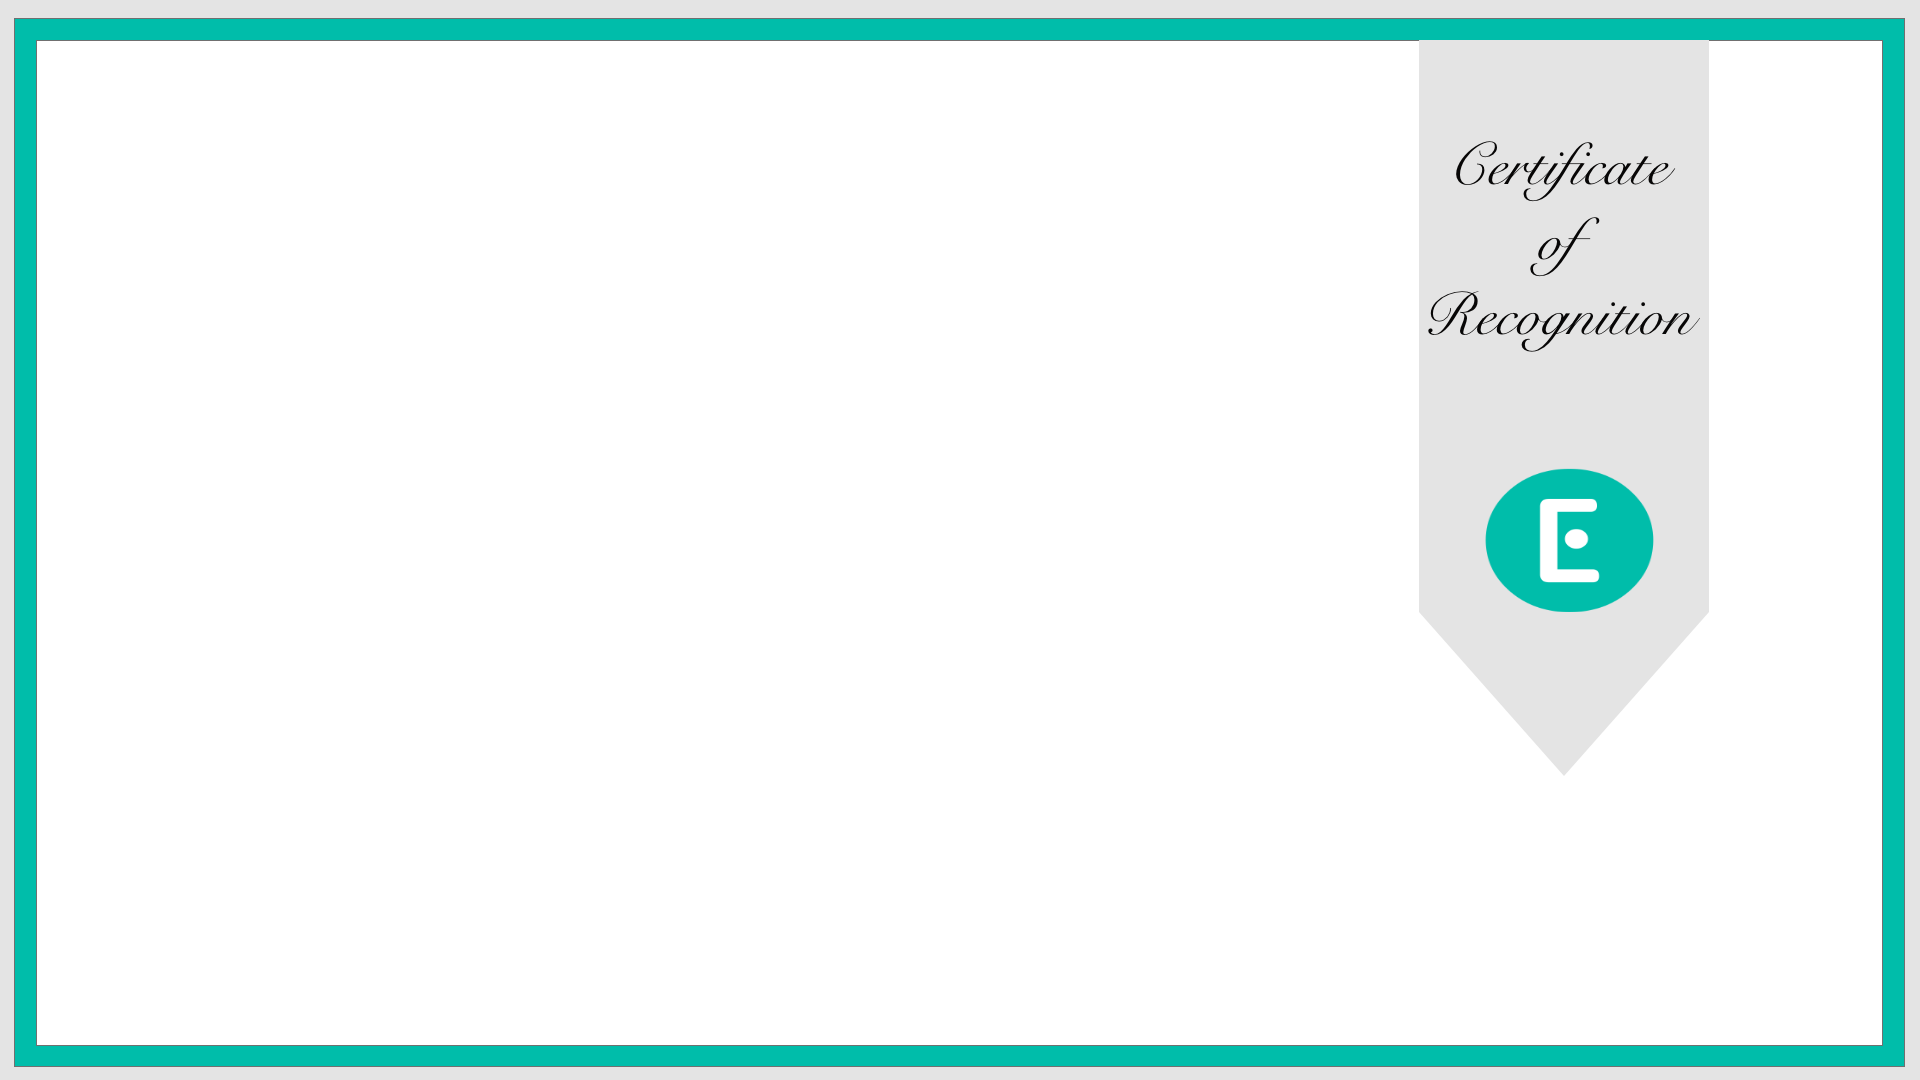
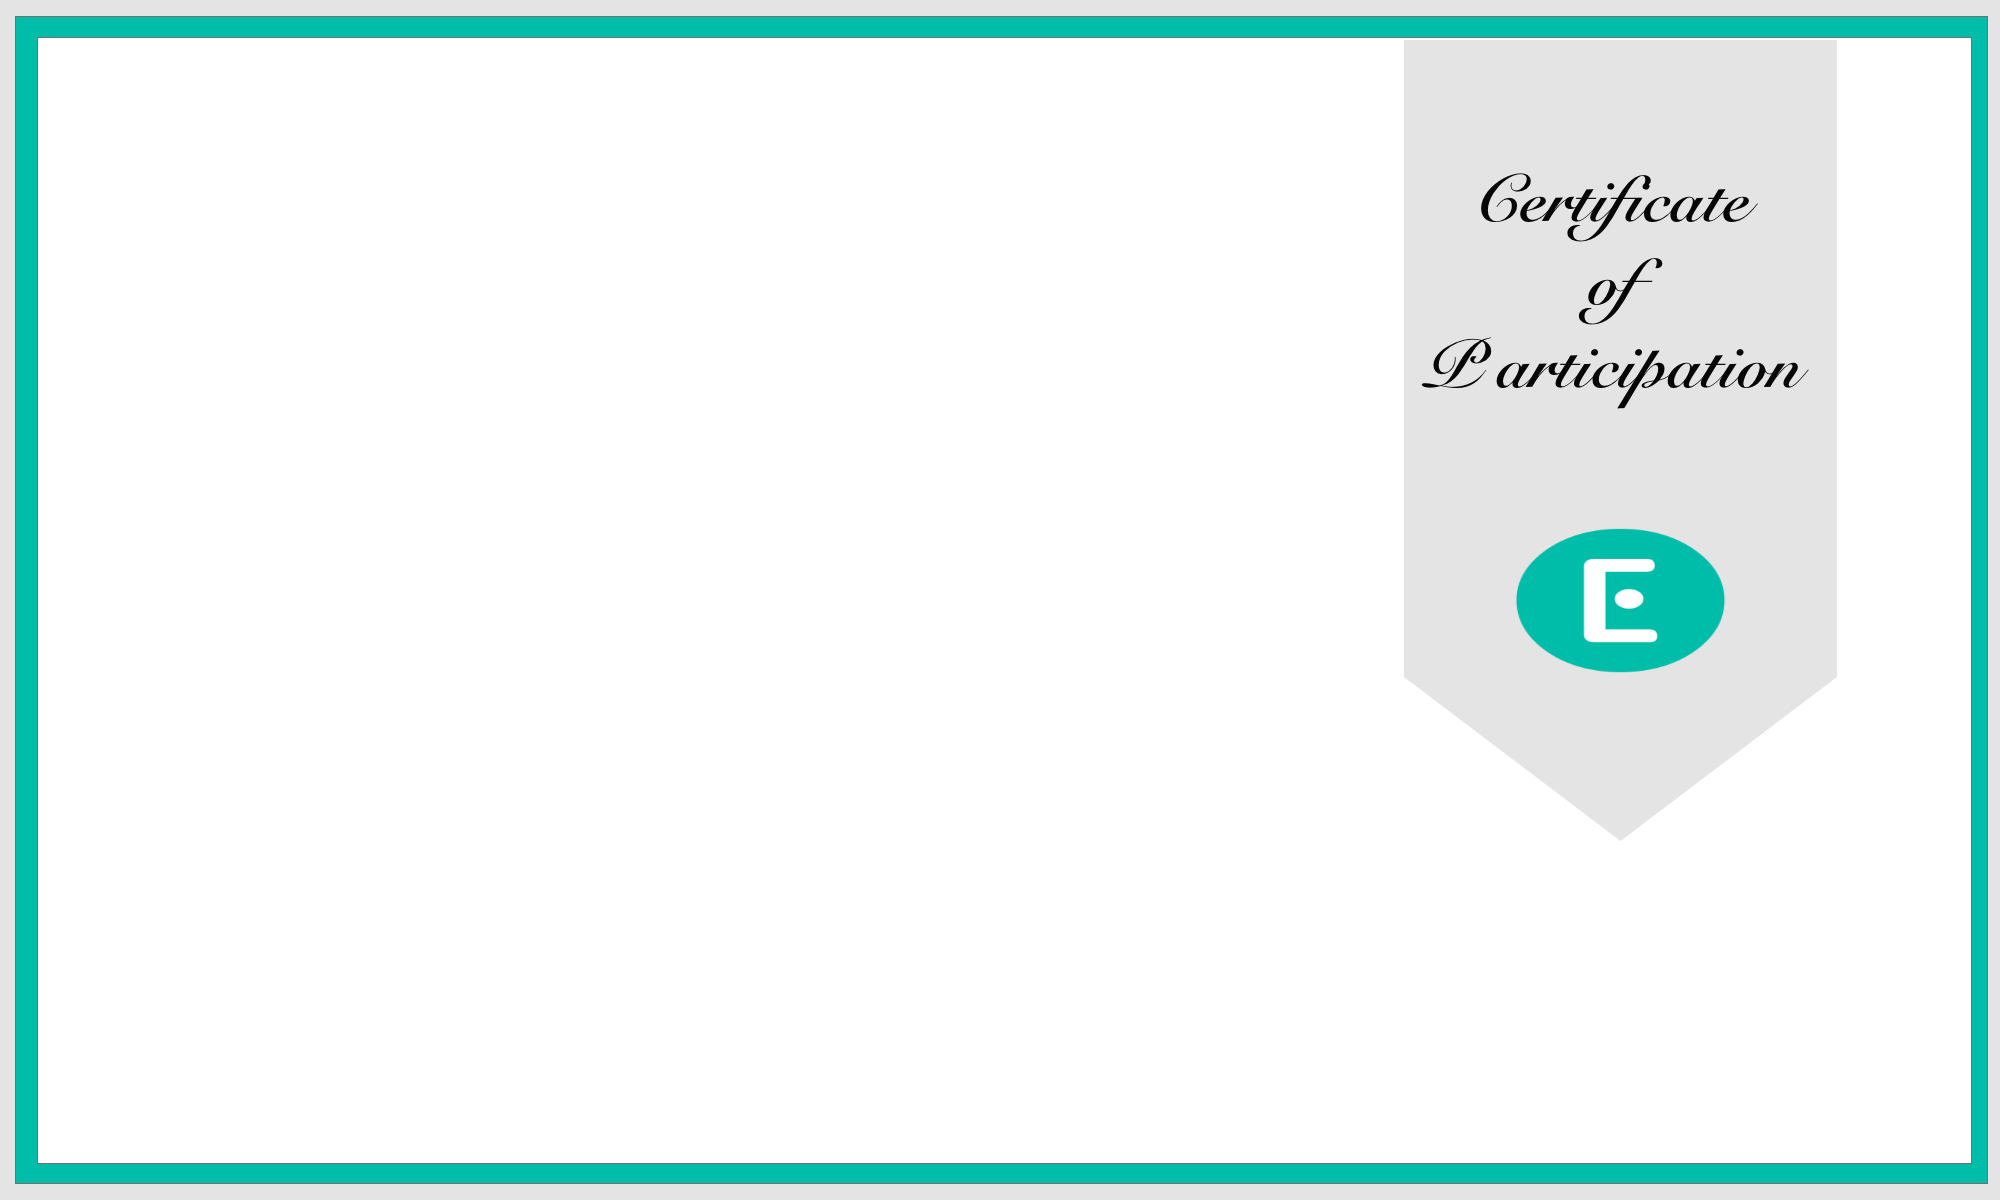
feedback routes added and some adminroutes added

Changed region(s): [[0.0, 0.0, 1.0, 1.0], [0.8438, 0.6111, 0.875, 0.6417], [0.8125, 0.6722, 0.8438, 0.7028]]

diff --git a/certificatetemplate.js b/certificatetemplate.js
@@ -2,78 +2,103 @@
 module.exports = () => {
     const today = new Date();
     return `
-<!DOCTYPE html>
-<html lang="en">
-<head>
-    <meta charset="UTF-8">
-    <meta name="viewport" content="width=device-width, initial-scale=1.0">
-    <title>Certificate</title>
-    <style>
-        body {
+    <!DOCTYPE html>
+    <html lang="en">
+    <head>
+        <meta charset="UTF-8">
+        <meta name="viewport" content="width=device-width, initial-scale=1.0">
+        <title>Certificate</title>
+        <style>
             
-        }
-        .title {
-            position: absolute;
-            left:80px;
-            top:100px;
-        }
-        .title2 {
-            position: absolute;
-            left:80px;
-            bottom:100px;
-        }
-        .bgimage {
-            display: block;
-            margin-left: auto;
-            margin-right: auto;
-            marign-top: auto;
-            margin-bottom: auto;
-        }
-        .one {
-            position: absolute;
-            left:80px;
-            top:60px;
-            font-weight: bolder;
-            font-size: 2.5em;
-        }
-        .two {
-            position: absolute;
-            left:80px;
-            top:170px;
-            /* font-weight: bolder; */
-            /* font-size: 2.5em; */
-        }
-        .three {
-            position: absolute;
-            left: 80px;
-            top: 200px;
-            font-weight: bolder;
-            font-size: 2.5em;
-        }
-        .four {
-            position: absolute;
-            left: 80px;
-            top: 270px;
-            /* font-weight: bolder; */
-            font-size: 1.5em;
-        }
-        .five {
-            position: absolute;
-            left: 80px;
-            top: 300px;
-            font-weight: bolder;
-            font-size: 2.5em;
-        }
-    </style>
-</head>
-<body>
-<img class="bgimage" src="http://localhost:4000/files/certificatebackground.png" height="1480px" width="1950px">
-<p class="one">CodeChef VIT</p> 
-<p class="two">01/10/2020</p>
-<p class="three">PUNEPALLE R LALITH SAGAR</p>
-<p class="four">has participated in</p>
-<p class="five">DevHack</p>
-</body>
-</html>
+            .bgimage {
+                display: block;
+                margin-left: auto;
+                margin-right: auto;
+                marign-top: auto;
+                margin-bottom: auto;
+            }
+            .one {
+                position: absolute;
+                left:109px;
+                top:105px;
+                /* font-weight: bolder; */
+                font-size: 90px;
+            }
+            .two {
+                position: absolute;
+                left:109px;
+                top:281px;
+                /* font-weight: bolder; */
+                font-size: 39px;
+            }
+            .three {
+                position: absolute;
+                left: 109px;
+                top: 326px;
+                font-weight: bolder;
+                font-size: 65px;
+            }
+            .four {
+                position: absolute;
+                left: 109px;
+                top: 420px;
+                /* font-weight: bolder; */
+                font-size: 50px;
+            }
+            .five {
+                position: absolute;
+                left: 109px;
+                top: 496px;
+                font-weight: bolder;
+                font-size: 65px;
+            }
+            .six {
+                position: absolute;
+                left: 109px;
+                top: 590px;
+                font-size: 50px;
+            }
+            .seven {
+                position: absolute;
+                left: 109px;
+                top: 897px;
+                font-weight: bolder;
+                font-size: 2.5em;
+            }
+            .eight {
+                position: absolute;
+                left: 1404px;
+                top: 1035px;
+                /* font-weight: bolder; */
+                font-size: 25px;
+            }
+            .nine {
+                position: absolute;
+                left: 1404px;
+                top: 1077px;
+                /* font-weight: bolder; */
+                font-size: 25px;
+            }
+            
+        </style>
+    </head>
+    <body>
+    <img class="bgimage" src="http://localhost:4000/files/certificatebackground.png" height="1180px" width="1950px">
+    <p class="one">CodeChef VIT</p> 
+    <p class="two">01/10/2020</p>
+    <p class="three">PUNEPALLE R LALITH SAGAR</p>
+    <p class="four">has participated in</p>
+    <p class="five">DevHack</p>
+    <p class="six">an hackathon organized by CodechefVIT<br>
+        hosted on ellipseapp.com</p>
+    <p class="seven">CodeChef VIT <br>Organizer<br>VIT Univeristy</p>
+    <p class="eight">Verify at ellipseapp.com/verify/1234567890</p>
+    <p class="nine">CodeChef VIT has confirmed the participation of 
+        individual in the even</p>
+    </body>
+    </html>
     `;
 };
+
+
+// http://localhost:4000/files/certificatebackground.png

diff --git a/Routers/AdminRoute.js b/Routers/AdminRoute.js
@@ -8,6 +8,8 @@ const AdminLogin = require('../Models/AdminLogin');
 const Events = require('../Models/Events');
 const adminAuth = require('../Middleware/AdminAuth');
 const UserDetails = require('../Models/UserDetails');
+const Reports = require('../Models/Reports');
+const FeedBack = require('../Models/FeedBack');
 
 sgMail.setApiKey(process.env.SENDGRID_API_KEY);
 const router = express.Router();
@@ -67,7 +69,7 @@ router.post('/api/admin/logout', adminAuth, async (req, res) => {
 router.get('/api/admin/get_all_events',adminAuth, async (req, res) => {
     try {
         Events.get((err, events) => {
-            console.log(events)
+            // console.log(events)
             res.status(200).json(events)
         })
     } catch (error) {
@@ -87,8 +89,8 @@ router.post('/api/admin/update_event_status',adminAuth, async (req, res) => {
 
 router.post('/api/admin/event/sendemail', adminAuth, async (req, res) => {
     try {
-        const userId = req.body.user_id;
-        const userDetails = await UserDetails.findOne({use_id: userId});
+        const userId = req.body.userId;
+        const userDetails = await UserDetails.findOne({user_id: userId});
         const email = userDetails.email;
         const title = req.body.title;
         const content = req.body.content;
@@ -107,6 +109,40 @@ router.post('/api/admin/event/sendemail', adminAuth, async (req, res) => {
     }
 
 })
+
+//route for all users
+router.get('/api/admin/get_all_users',adminAuth, async (req, res) => {
+    try {
+        UserDetails.find().then(users=>{
+            res.status(200).json(users)
+        })
+    } catch (error) {
+        res.status(400).json({ error: error.message })
+    }
+})
+
+//route for reports
+
+router.get('/api/admin/reports',adminAuth,async (req,res)=>{
+    try {
+        Reports.find().then(reports=>{
+            res.status(200).json(reports)
+        })
+    } catch (error) {
+        res.status(400).json({ error: error.message })
+    }
+})
+
+router.get('/api/admin/feedback',adminAuth,async (req,res)=>{
+    try {
+        FeedBack.find().then(feedbacks=>{
+            res.status(200).json(feedbacks)
+        })
+    } catch (error) {
+        res.status(400).json({ error: error.message })
+    }
+})
+
 
 
 

diff --git a/Routers/FeedBackRoute.js b/Routers/FeedBackRoute.js
@@ -1,0 +1,33 @@
+const express = require('express');
+var Mongoose = require('mongoose');
+const auth = require('../Middleware/Auth');
+// const Events = require('../Models/Events');
+// const Report = require('../Models/Reports');
+const FeedBack = require('../Models/FeedBack');
+const router = express.Router();
+
+
+//post the report for the event
+
+router.post('/api/event/send_feedback', auth, async (req, res) => {
+    try {
+        const user = req.user;
+        const { description } = req.body;
+        const feedback = new FeedBack({
+            user_id: user._id,
+            description: description,
+        })
+        await feedback.save((err) => {
+            if (err) {
+                res.status(400).json({ error: err.message })
+            }
+            res.status(200).json({ message: "success" })
+        })
+    }
+    catch (error) {
+        res.status(400).json({ error: error.message })
+    }
+
+});
+
+module.exports = router

diff --git a/app.js b/app.js
@@ -19,6 +19,7 @@ const registerRouter = require('./Routers/RegistrationRoute');
 const reportRouter = require('./Routers/ReportRoute');
 const notificationRouter = require('./Routers/NotificationRoute');
 const adminRouter = require('./Routers/AdminRoute');
+const feedBackRouter = require('./Routers/FeedBackRoute');
 
 //Database models
 const Events = require('./Models/Events');
@@ -126,6 +127,7 @@ app.use(registerRouter);
 app.use(reportRouter);
 app.use(notificationRouter);
 app.use(adminRouter);
+app.use(feedBackRouter);
 
 
 server.listen(PORT, (req, res) => {

diff --git a/Routers/Eventroute.js b/Routers/Eventroute.js
@@ -19,7 +19,7 @@ const router = express.Router();
 sgMail.setApiKey(process.env.SENDGRID_API_KEY);
 
 router.post('/api/generate_certificate', async (req, res) => {
-    pdf.create(template(), {width: "2000px",height:"1500px"}).toFile('rezultati.pdf', (err) => {
+    pdf.create(template(), {width: "2000px",height:"1200px"}).toFile('rezultati.pdf', (err) => {
         if (err) {
             return console.log('error');
         }

diff --git a/Models/FeedBack.js b/Models/FeedBack.js
@@ -1,0 +1,22 @@
+const mongoose = require('mongoose');
+
+
+const feedback = mongoose.Schema({
+    user_id: {
+        type: String,
+        default: null
+    },
+    description: {
+        type: String,
+        default: null
+    },
+    time: {
+        type: Date,
+        default: Date.now
+    }
+});
+
+
+const Feedback = mongoose.model('Feedback', feedback);
+
+module.exports = Feedback;

diff --git a/Models/Registrations.js b/Models/Registrations.js
@@ -13,6 +13,10 @@ const registration = mongoose.Schema({
     data:{
         type: Object,
     },
+    status: {
+        type: String,
+        default: "registered"
+    },
     time: {
         type: Date,
         default: Date.now

diff --git a/Models/Events.js b/Models/Events.js
@@ -127,6 +127,9 @@ let eventShema = mongoose.Schema({
         type: String,
         default: "pending"
     },
+    share_link: {
+        type: String,
+    },
     posted_on: {
         type: Date,
         default: Date.now()
